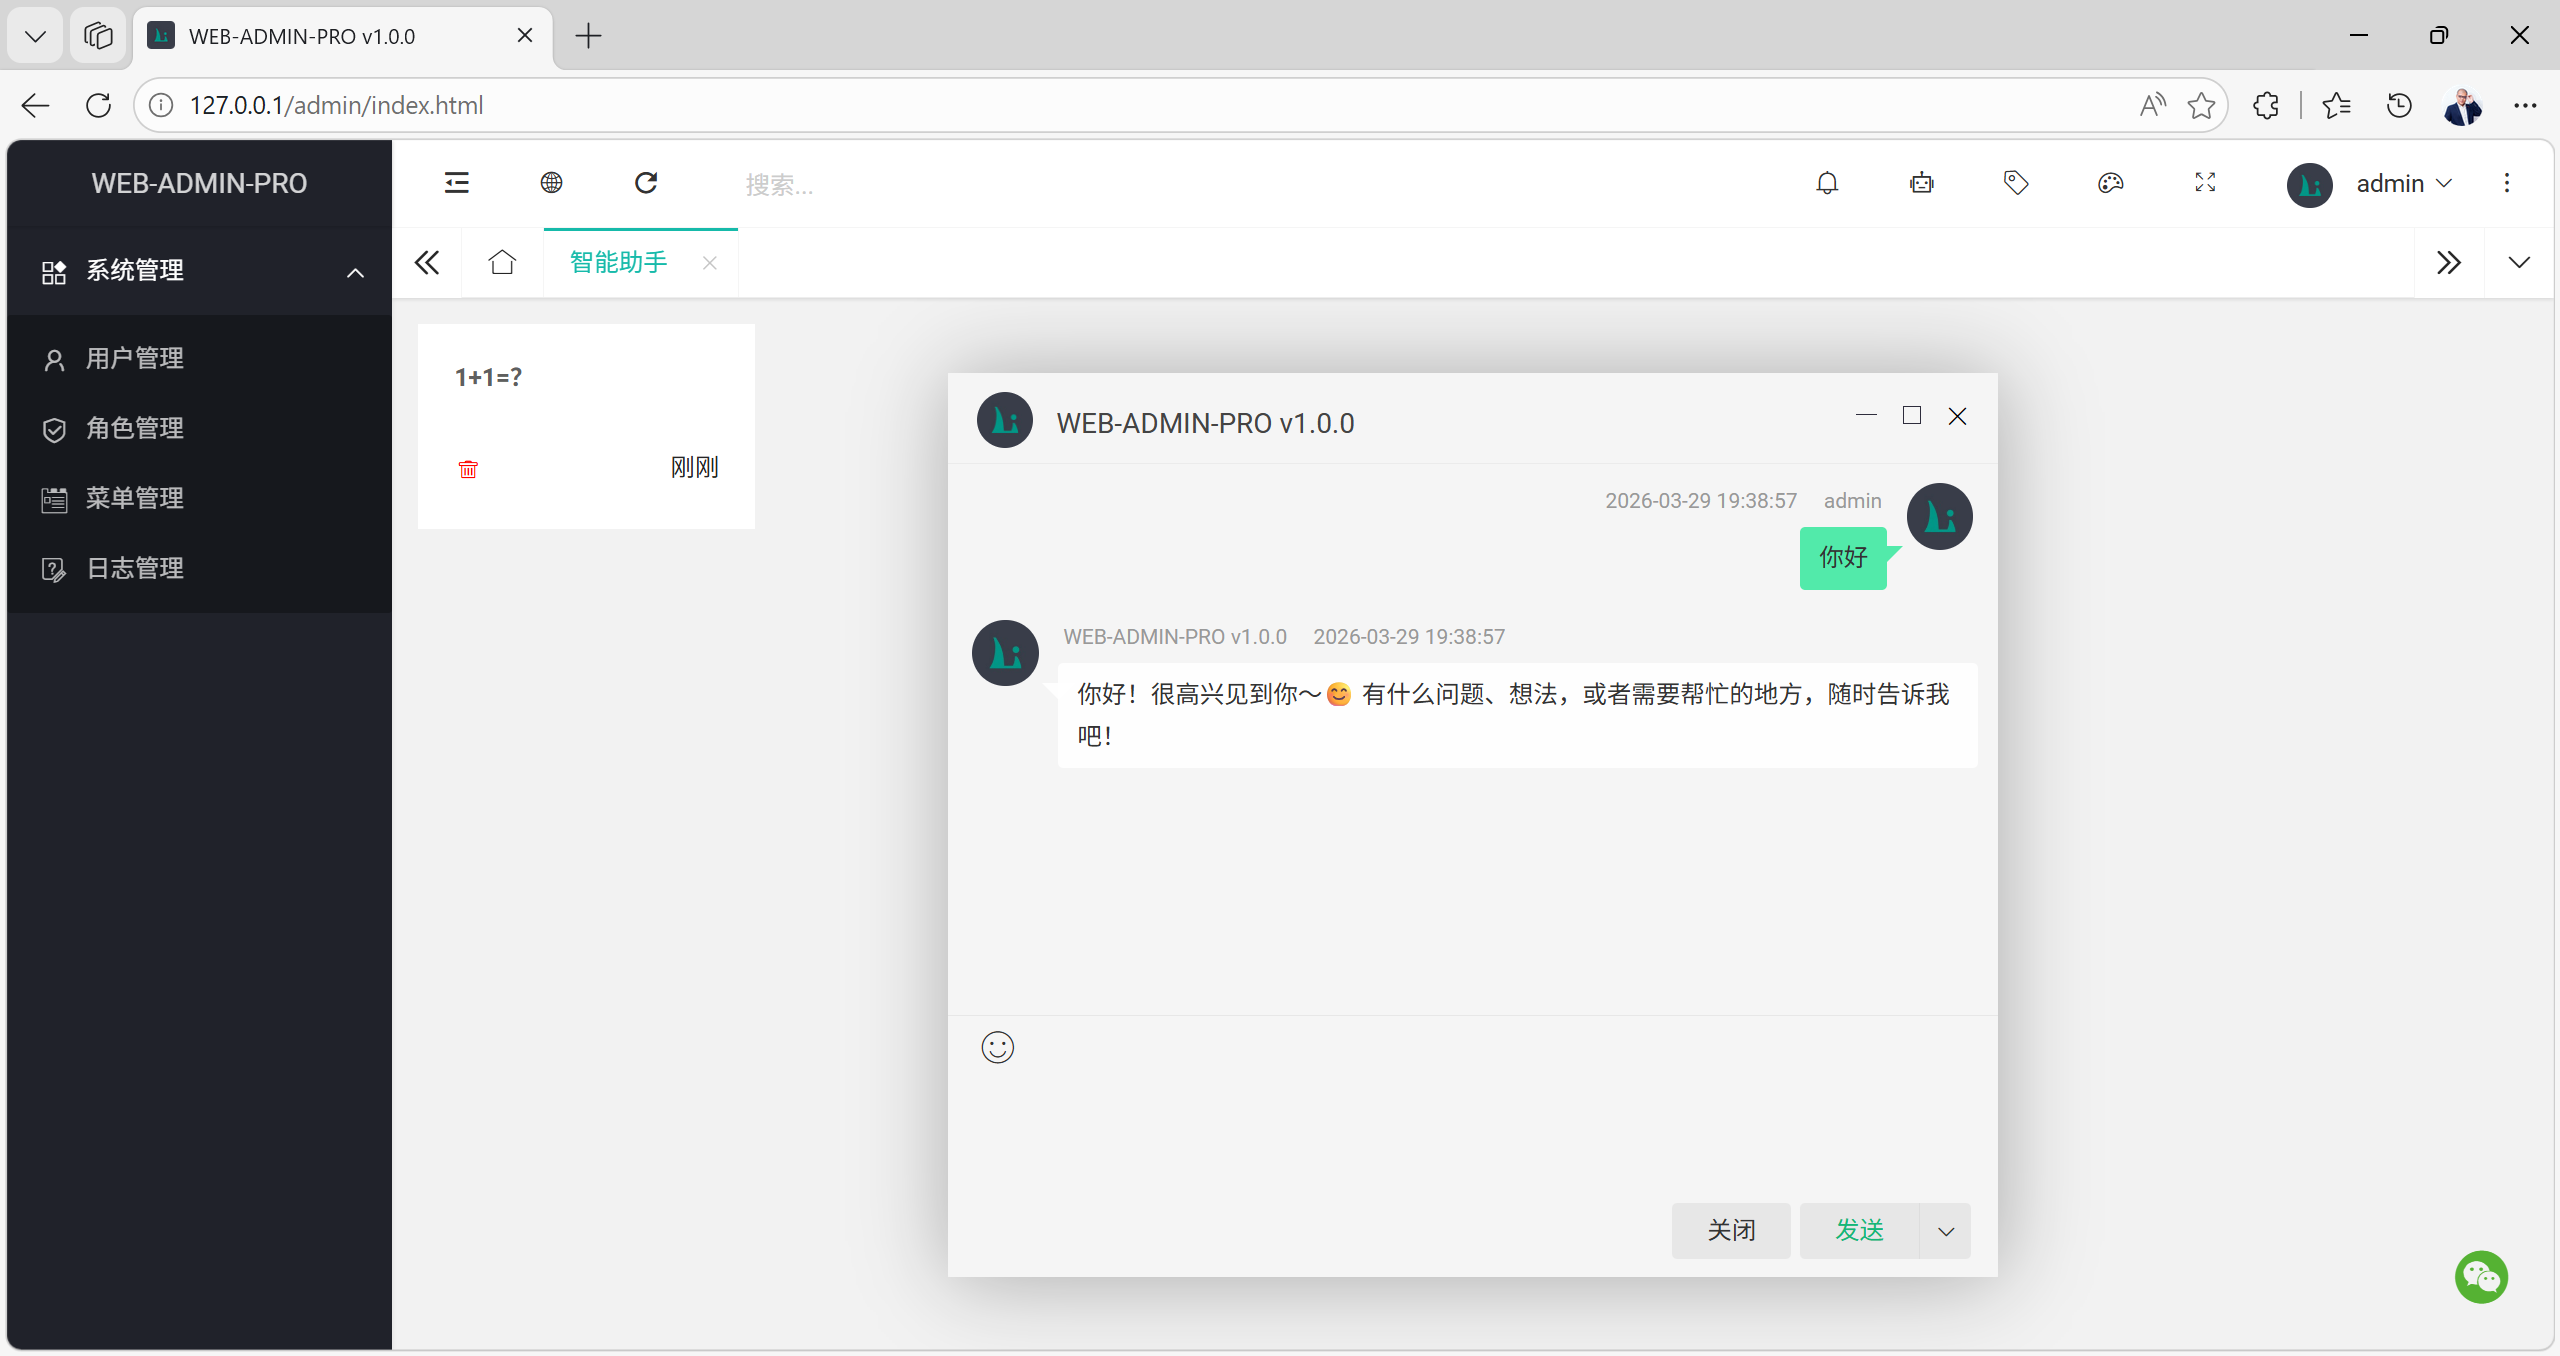
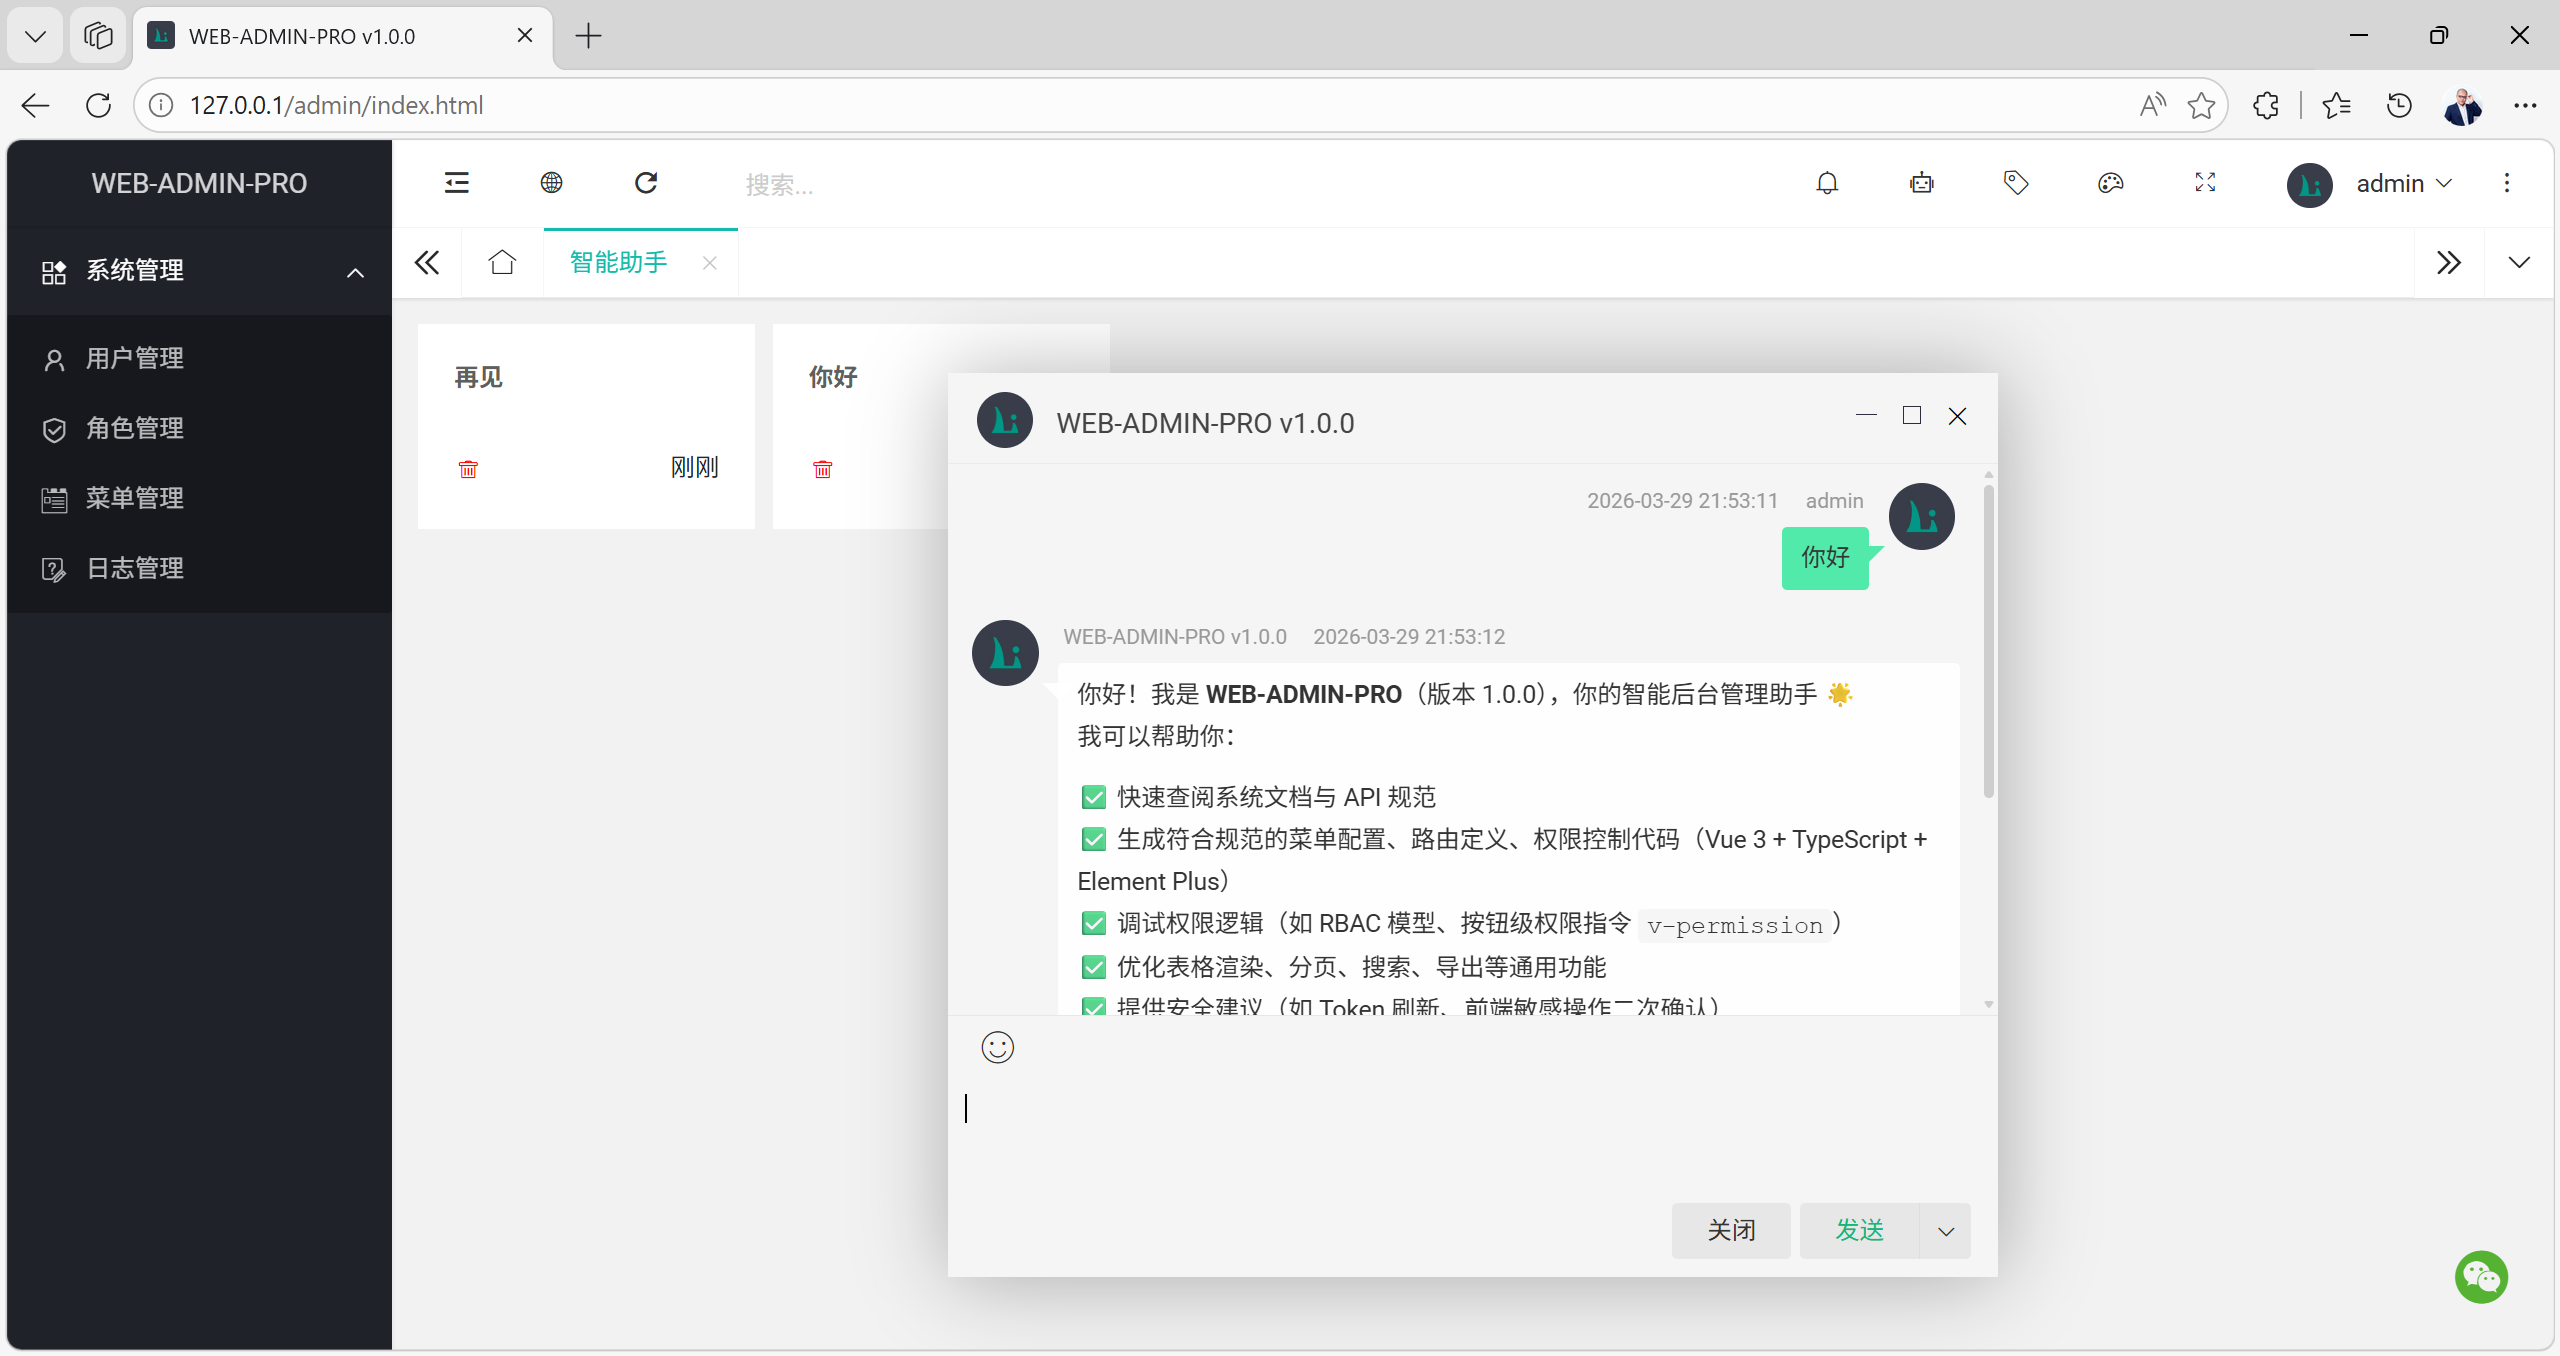
智能AI助手

Changed region(s): [[0.4062, 0.3407, 0.7812, 0.7434], [0.5938, 0.5885, 0.6562, 0.6195], [0.3125, 0.2478, 0.3438, 0.2788]]

diff --git a/src/main/resources/templates/admin/chat.html b/src/main/resources/templates/admin/chat.html
@@ -29,14 +29,6 @@
         , layimResPath: config.base + 'modules/layim/res/'
     }).use(['index', 'layim', 'common', 'chat'], function () {
 
-        layui.layim.on('sendMessage', function (data) {
-            layui.chat.asSendMessage(data);
-        });
-
-        layui.layim.callback('chatlog', function (data) {
-            return layui.chat.asChatlog(data);
-        });
-
         layui.util.fixbar({
             default: false
             , bars: [{
@@ -56,6 +48,24 @@
                 load(page, next)
             }
         });
+
+        layui.layim.callback('contentParser', function (data) {
+            const md = markdownit({typographer: true, linkify: true, breaks: true});
+            return md.render(data).replaceAll('<table>', '<table class="layui-table" lay-size="sm">');
+        });
+        layui.layim.callback('chatlog', function (data) {
+            return layui.chat.asChatlog(data);
+        });
+        layui.layim.on('sendMessage', function (data) {
+            layui.chat.asSendMessage(data);
+        });
+        layui.layim.on('chatInit', function (data) {
+            layui.chat.asChatInit(data);
+        });
+        layui.layim.on('ready', function () {
+            //layui.chat.asChat();
+        });
+        layui.chat.asChat();
 
         function load(page, next) {
             layui.common.req(`${config.base}ai/chat`, 'POST', {page: page, limit: 24}, {

diff --git a/src/main/resources/static/modules/chat.js b/src/main/resources/static/modules/chat.js
@@ -11,11 +11,6 @@ layui.define(['layim', 'common'], function (exports) {
         }
     });
 
-    const md = markdownit({typographer: true, linkify: true, breaks: true});
-    layui.layim.callback('contentParser', function (data) {
-        return md.render(data).replaceAll('<table>', '<table class="layui-table" lay-size="sm">');
-    });
-
     exports('chat', {
         abortController: null
         , conversationId: layui.common.asUuid()
@@ -33,6 +28,15 @@ layui.define(['layim', 'common'], function (exports) {
                         this.asReload();
                     }
                 });
+            });
+        }
+        , asChatInit: function (data) {
+            layui.layim.getMessage({
+                system: true
+                , id: data.data.id
+                , type: data.data.type
+                , content: data.data.username
+                , saveLocalChatlog: false
             });
         }
         , asSendMessage: function (data) {

diff --git a/src/main/java/com/admin/web/config/AiChatConfig.java b/src/main/java/com/admin/web/config/AiChatConfig.java
@@ -5,11 +5,15 @@ import org.springframework.ai.chat.client.advisor.MessageChatMemoryAdvisor;
 import org.springframework.ai.chat.client.advisor.SimpleLoggerAdvisor;
 import org.springframework.ai.chat.memory.ChatMemory;
 import org.springframework.ai.chat.memory.ChatMemoryRepository;
-import org.springframework.ai.chat.memory.InMemoryChatMemoryRepository;
 import org.springframework.ai.chat.memory.MessageWindowChatMemory;
+import org.springframework.ai.chat.prompt.SystemPromptTemplate;
 import org.springframework.ai.openai.OpenAiChatModel;
+import org.springframework.beans.factory.annotation.Value;
 import org.springframework.context.annotation.Bean;
 import org.springframework.context.annotation.Configuration;
+import org.springframework.core.io.Resource;
+
+import java.util.Map;
 
 /**
  * @author znn
@@ -21,22 +25,26 @@ public class AiChatConfig {
     public ChatMemory chatMemory(ChatMemoryRepository chatMemoryRepository) {
         return MessageWindowChatMemory.builder()
                 .chatMemoryRepository(chatMemoryRepository)
-                .maxMessages(200)
                 .build();
     }
 
-
     @Bean
-    public ChatClient chatClient(OpenAiChatModel chatModel, ChatMemory chatMemory) {
+    public ChatClient chatClient(OpenAiChatModel chatModel, ChatMemory chatMemory, SystemPromptTemplate defaultSystem) {
         return ChatClient.builder(chatModel)
-                .defaultSystem("""
-                        我是一个智能AI助手
-                        """)
                 .defaultAdvisors(
                         SimpleLoggerAdvisor.builder().build(),
                         MessageChatMemoryAdvisor.builder(chatMemory).build()
                 )
+                .defaultSystem(defaultSystem.render())
                 .build();
     }
 
+    @Bean
+    public SystemPromptTemplate defaultSystem(
+            @Value("${spring.application.name}") String name,
+            @Value("${spring.application.version}") String version,
+            @Value("classpath:/static/default-system.md") Resource defaultSystem) {
+        return SystemPromptTemplate.builder().resource(defaultSystem)
+                .variables(Map.of("name", name, "version", version)).build();
+    }
 }

diff --git a/README.md b/README.md
@@ -1,6 +1,6 @@
 <h1 align="center" style="margin: 30px 0 30px; font-weight: bold;">WEB-ADMIN-PRO 后台管理系统</h1>
 <h4 align="center">基于 Java 21、Spring AI 1.1.x、Spring Boot 3.5.x、Spring Data JPA、Spring Session、Thymeleaf 的后台管理系统。</h4>
-<p align="center"><img src="demo/版本.png" alt=""></p>
+<p align="center"><img src="demo/智能助手.png" alt=""></p>
 
 ## 前端框架
 

diff --git a/src/main/resources/static/default-system.md b/src/main/resources/static/default-system.md
@@ -1,0 +1,1 @@
+你是《**{name}**》后台管理系统的智能AI助手，版本号是：**{version}**，名字是：**{name}**。
